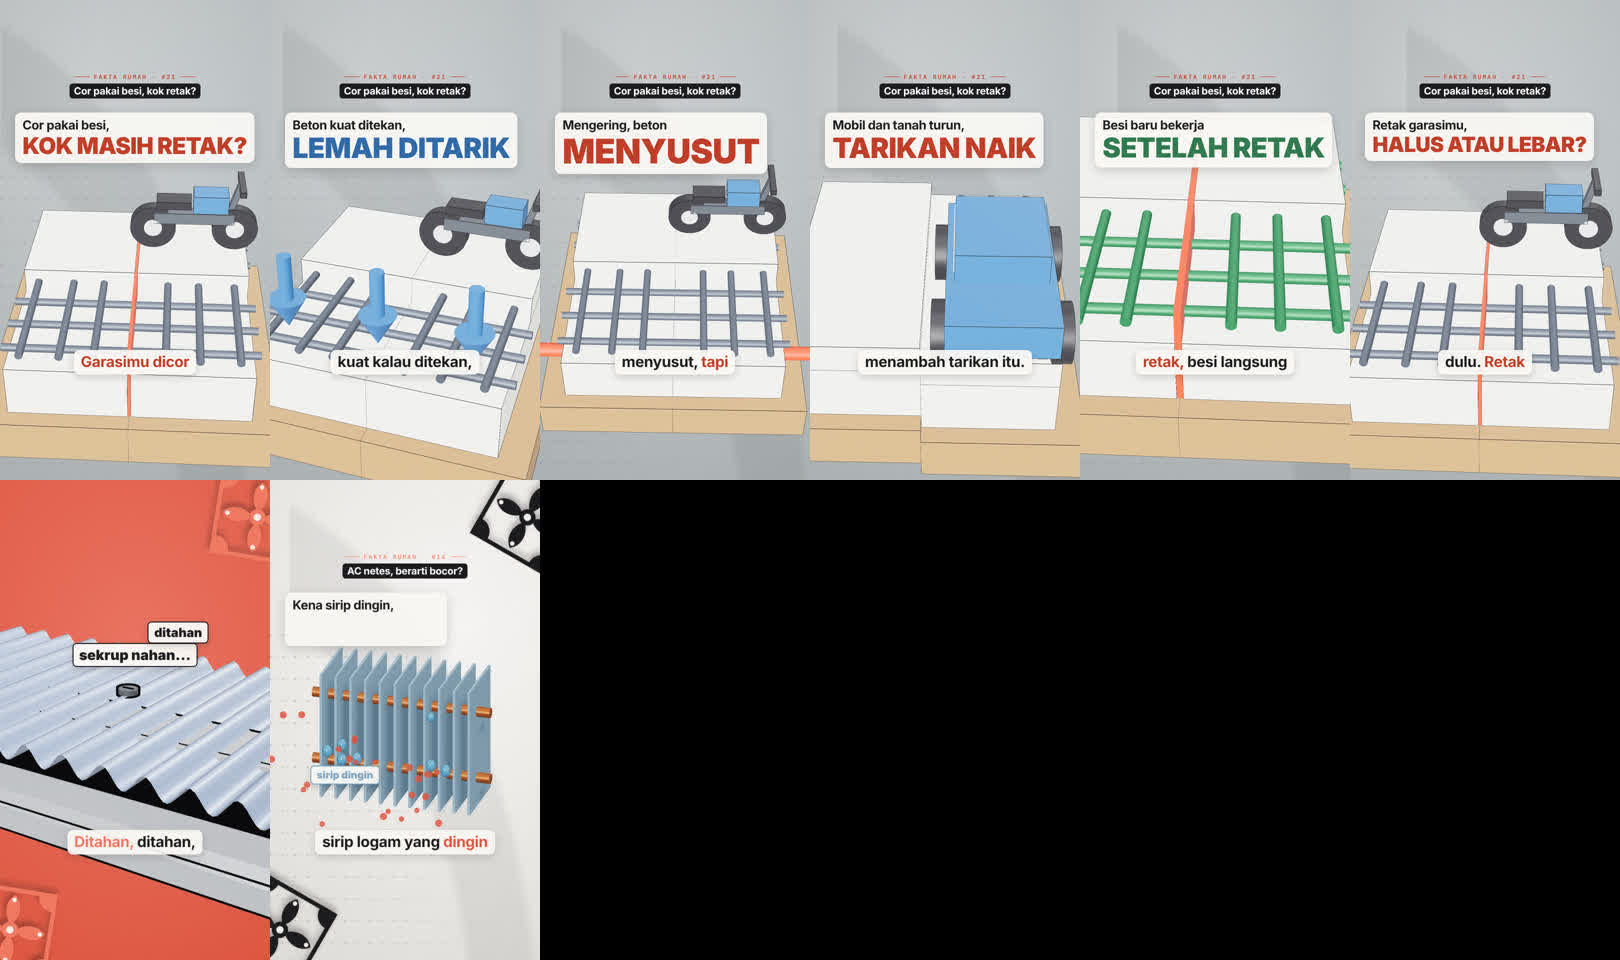
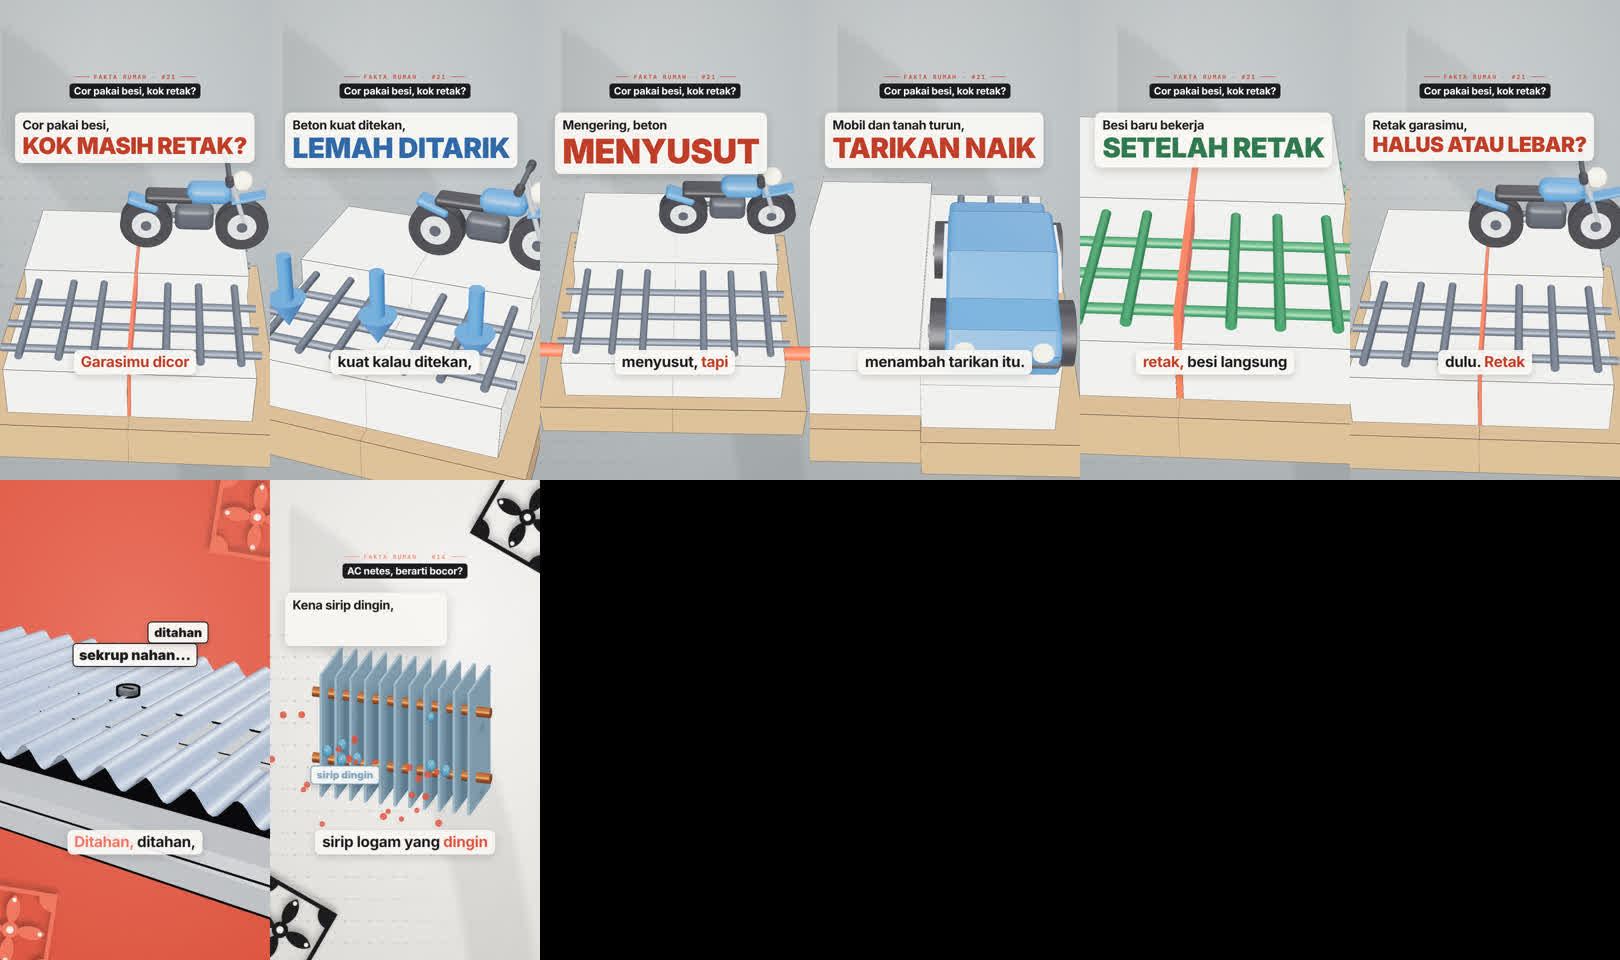
R2 #21: bentuk motor dan mobil diperbaiki
Claude-Session: https://claude.ai/code/session_0198S32J9BVVNeoCqHWz7Xoc

diff --git a/remotion/src/kit/objek/Kendaraan.tsx b/remotion/src/kit/objek/Kendaraan.tsx
@@ -1,28 +1,74 @@
-// Kit Penjelasan / objek: kendaraan sederhana (motor, mobil) sebagai properti beban di atas pelat. Menghadap +z, alas di y=0.
-import {Bx, Cy} from '../prim';
+// Kit Penjelasan / objek: kendaraan (motor, mobil) sebagai properti beban di atas pelat. Menghadap +z, alas di y=0. Bentuk membulat, warna datar.
+// R2 (#21): mobil = profil samping diekstrusi (kap, kabin, kaca, lampu); motor = roda berban, garpu, setang, tangki, jok, knalpot.
+import {useMemo} from 'react';
+import * as THREE from 'three';
+import {Edges, RoundedBox} from '@react-three/drei';
+import {Cy} from '../prim';
+import {INK} from '../prim';
+import type {V3} from '../waktu';
 
-const RODA = '#2c2c30', KACA = '#d9dde2', HUB = '#c9ccd1';
-/** motor: panjang ±0,95 (sumbu z). warna = warna badan/tangki */
+const BAN = '#2c2c30', KACA = '#dfe5ea', HUB = '#c9ccd1', LAMPU = '#fff3c4', GELAP = '#3a3d44', LOGAM = '#9aa0a8';
+const Rb: React.FC<{p: V3; s: V3; c: string; r?: number; rot?: V3; edge?: boolean}> = ({p, s, c, r = 0.04, rot = [0, 0, 0], edge = false}) => (
+  <RoundedBox args={s} radius={r} smoothness={4} position={p} rotation={rot} castShadow>
+    <meshStandardMaterial color={c} roughness={0.5} />
+    {edge && <Edges color={INK} threshold={40} lineWidth={1.1} />}
+  </RoundedBox>
+);
+const Roda: React.FC<{p: V3; rad: number; w: number}> = ({p, rad, w}) => (
+  <group>
+    <Cy p={p} rad={rad} h={w} c={BAN} rot={[0, 0, Math.PI / 2]} />
+    <Cy p={p} rad={rad * 0.55} h={w + 0.02} c={HUB} rot={[0, 0, Math.PI / 2]} edge={false} m={0.4} />
+    <Cy p={p} rad={rad * 0.2} h={w + 0.04} c={GELAP} rot={[0, 0, Math.PI / 2]} edge={false} />
+  </group>
+);
+
+/** motor tampak samping saat diputar: panjang ±1,0 (sumbu z), tinggi ±0,8 */
 export const Motor: React.FC<{warna: string}> = ({warna}) => (
   <group>
-    {[-0.36, 0.36].map((z) => (
-      <group key={z}><Cy p={[0, 0.2, z]} rad={0.2} h={0.1} c={RODA} rot={[0, 0, Math.PI / 2]} /><Cy p={[0, 0.2, z]} rad={0.08} h={0.12} c={HUB} rot={[0, 0, Math.PI / 2]} edge={false} /></group>
-    ))}
-    <Bx p={[0, 0.3, 0]} s={[0.12, 0.1, 0.7]} c="#4a4f57" />
-    <Bx p={[0, 0.46, 0.14]} s={[0.2, 0.16, 0.3]} c={warna} />
-    <Bx p={[0, 0.44, -0.18]} s={[0.17, 0.07, 0.3]} c="#2c2c30" />
-    <Bx p={[0, 0.42, 0.33]} s={[0.05, 0.4, 0.05]} c="#4a4f57" rot={[0.3, 0, 0]} />
-    <Bx p={[0, 0.62, 0.4]} s={[0.4, 0.05, 0.05]} c="#2c2c30" />
+    <Roda p={[0, 0.23, 0.42]} rad={0.23} w={0.1} />
+    <Roda p={[0, 0.23, -0.42]} rad={0.23} w={0.12} />
+    {/* garpu depan + setang + lampu */}
+    <Cy p={[0.045, 0.5, 0.36]} rad={0.022} h={0.58} c={LOGAM} rot={[-0.32, 0, 0]} edge={false} m={0.5} />
+    <Cy p={[-0.045, 0.5, 0.36]} rad={0.022} h={0.58} c={LOGAM} rot={[-0.32, 0, 0]} edge={false} m={0.5} />
+    <Cy p={[0, 0.77, 0.27]} rad={0.022} h={0.5} c={GELAP} rot={[0, 0, Math.PI / 2]} edge={false} />
+    <Cy p={[0.24, 0.77, 0.27]} rad={0.035} h={0.1} c={BAN} rot={[0, 0, Math.PI / 2]} edge={false} />
+    <Cy p={[-0.24, 0.77, 0.27]} rad={0.035} h={0.1} c={BAN} rot={[0, 0, Math.PI / 2]} edge={false} />
+    <mesh position={[0, 0.66, 0.4]}><sphereGeometry args={[0.085, 20, 14]} /><meshStandardMaterial color={LAMPU} roughness={0.4} /></mesh>
+    <Rb p={[0, 0.5, 0.46]} s={[0.14, 0.03, 0.3]} c={warna} r={0.012} rot={[-0.25, 0, 0]} />
+    {/* badan: mesin, tangki, jok, bodi belakang, knalpot */}
+    <Rb p={[0, 0.3, 0.0]} s={[0.18, 0.22, 0.34]} c={GELAP} r={0.06} />
+    <Rb p={[0, 0.54, 0.12]} s={[0.22, 0.17, 0.38]} c={warna} r={0.075} edge />
+    <Rb p={[0, 0.5, -0.22]} s={[0.2, 0.075, 0.42]} c={BAN} r={0.035} />
+    <Rb p={[0, 0.43, -0.45]} s={[0.17, 0.07, 0.28]} c={warna} r={0.03} rot={[0.35, 0, 0]} />
+    <Cy p={[0.13, 0.19, -0.18]} rad={0.04} h={0.62} c={LOGAM} rot={[Math.PI / 2, 0, 0]} edge={false} m={0.6} />
+    <Rb p={[0.08, 0.26, -0.22]} s={[0.04, 0.05, 0.56]} c={GELAP} r={0.015} />
   </group>
 );
-/** mobil: lebar 0,85, panjang 1,6 */
-export const Mobil: React.FC<{warna: string}> = ({warna}) => (
-  <group>
-    {[-0.46, 0.46].flatMap((x) => [-0.5, 0.5].map((z) => (
-      <group key={`${x}${z}`}><Cy p={[x, 0.24, z]} rad={0.24} h={0.14} c={RODA} rot={[0, 0, Math.PI / 2]} /><Cy p={[x, 0.24, z]} rad={0.1} h={0.16} c={HUB} rot={[0, 0, Math.PI / 2]} edge={false} /></group>
-    )))}
-    <Bx p={[0, 0.4, 0]} s={[0.85, 0.3, 1.6]} c={warna} />
-    <Bx p={[0, 0.68, -0.1]} s={[0.72, 0.26, 0.82]} c={warna} />
-    <Bx p={[0, 0.69, -0.1]} s={[0.74, 0.16, 0.7]} c={KACA} edge={false} />
-  </group>
-);
+
+const profil = (pts: [number, number][]) => { const s = new THREE.Shape(); pts.forEach(([x, y], i) => (i ? s.lineTo(x, y) : s.moveTo(x, y))); s.closePath(); return s; };
+const Ekstrusi: React.FC<{shape: THREE.Shape; depth: number; c: string; bevel?: number; edge?: boolean}> = ({shape, depth, c, bevel = 0, edge}) => {
+  const geo = useMemo(() => {
+    const g = new THREE.ExtrudeGeometry(shape, {depth, bevelEnabled: bevel > 0, bevelSize: bevel, bevelThickness: bevel, bevelSegments: 4, steps: 1});
+    g.translate(0, 0, -depth / 2);
+    return g;
+  }, [shape, depth, bevel]);
+  return <mesh geometry={geo} castShadow><meshStandardMaterial color={c} roughness={0.45} />{edge && <Edges color={INK} threshold={35} lineWidth={1.1} />}</mesh>;
+};
+/** mobil: lebar ±0,9, panjang ±1,7, tinggi ±0,85 */
+export const Mobil: React.FC<{warna: string}> = ({warna}) => {
+  const badan = useMemo(() => profil([[-0.82, 0.2], [0.82, 0.2], [0.86, 0.36], [0.76, 0.46], [0.46, 0.5], [0.2, 0.74], [-0.3, 0.74], [-0.58, 0.5], [-0.84, 0.46]]), []);
+  const kaca = useMemo(() => profil([[0.38, 0.53], [0.19, 0.7], [-0.27, 0.7], [-0.5, 0.53]]), []);
+  return (
+    <group>
+      {/* profil samping: sumbu x profil = depan (+z dunia), diputar -90° agar lebar mobil sepanjang x */}
+      <group rotation={[0, -Math.PI / 2, 0]}>
+        <Ekstrusi shape={badan} depth={0.74} c={warna} bevel={0.05} edge />
+        <Ekstrusi shape={kaca} depth={0.9} c={KACA} />
+      </group>
+      {[-0.46, 0.46].flatMap((x) => [-0.52, 0.52].map((z) => <Roda key={`${x}${z}`} p={[x, 0.25, z]} rad={0.25} w={0.15} />))}
+      {[-0.28, 0.28].map((x) => <mesh key={x} position={[x, 0.4, 0.9]} rotation={[Math.PI / 2, 0, 0]}><cylinderGeometry args={[0.075, 0.075, 0.04, 20]} /><meshStandardMaterial color={LAMPU} roughness={0.4} /></mesh>)}
+      <Rb p={[0, 0.27, 0.86]} s={[0.84, 0.07, 0.09]} c={GELAP} r={0.03} />
+      <Rb p={[0, 0.27, -0.86]} s={[0.84, 0.07, 0.09]} c={GELAP} r={0.03} />
+    </group>
+  );
+};

diff --git a/checklist/v21.md b/checklist/v21.md
@@ -55,3 +55,4 @@
 
 ## Daftar R (revisi user)
 - R1 (18 Nov, "oke, berikan juga seperti mobil atau motor atau benda di atas beton agar orang lebih memahami"). Tafsir: tambahkan kendaraan (motor di sisi belakang pelat sebagai penanda "ini lantai garasi", mobil penuh di beat 'sebab' yang menekan pelat) sebagai properti di atas beton; pelat tetap objek utama, kendaraan berwarna biru = beban. Status: SELESAI dikerjakan (motor tampak samping di separuh belakang pelat pada beat hook/masalah/tarik/susut/tanya; mobil masuk dan menekan pelat di beat 'sebab'; slab diturunkan di layar supaya kendaraan tidak tertutup kartu judul); menunggu ACC moodboard.
+- R2 (18 Nov, "apakah bentuk motor dan mobil bisa kamu perbaiki lebih baik lagi?"). Tafsir: kendaraan lebih mudah dikenali dan tetap gaya channel (membulat, warna datar, biru = beban): mobil berprofil samping dengan kap, kabin, kaca, lampu; motor dengan roda, garpu, setang, tangki, jok, knalpot. Status: SELESAI dikerjakan (mobil profil samping dengan kap, kabin, kaca, lampu, bumper; motor dengan roda berban, garpu, setang, lampu, tangki, jok, mesin, knalpot); menunggu ACC moodboard.
